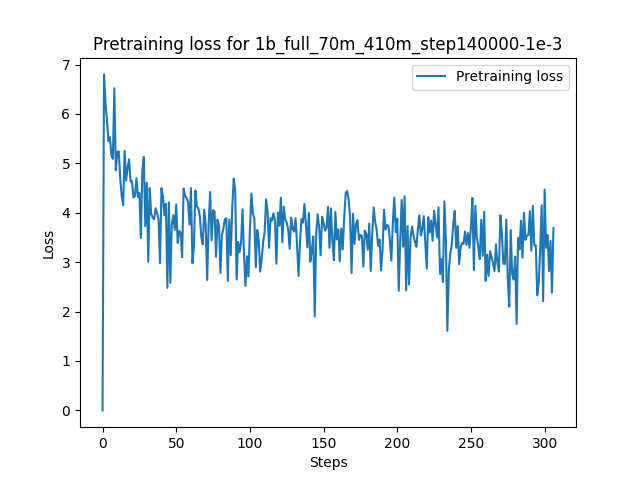
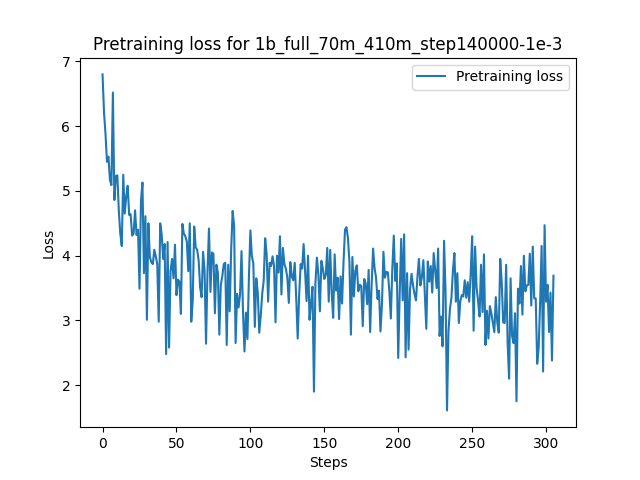
fixed plotting

diff --git a/src/visualize/plot_losses.py b/src/visualize/plot_losses.py
@@ -26,7 +26,7 @@ def read_log(log_path):
             loss = re.search(r'loss: ([0-9]+\.[0-9]+)', line).group(1)
             losses.append(float(loss))
 
-    return losses
+    return losses[1:]
 
 def plot_losses(losses, output_path, title):
     plt.plot(losses, label='Pretraining loss')
